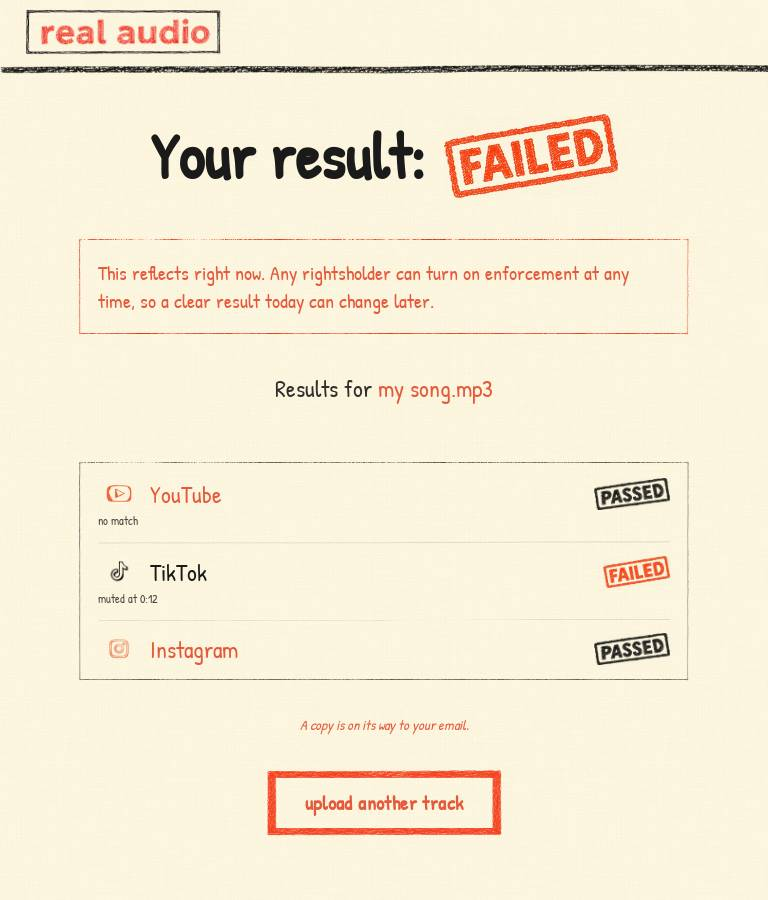
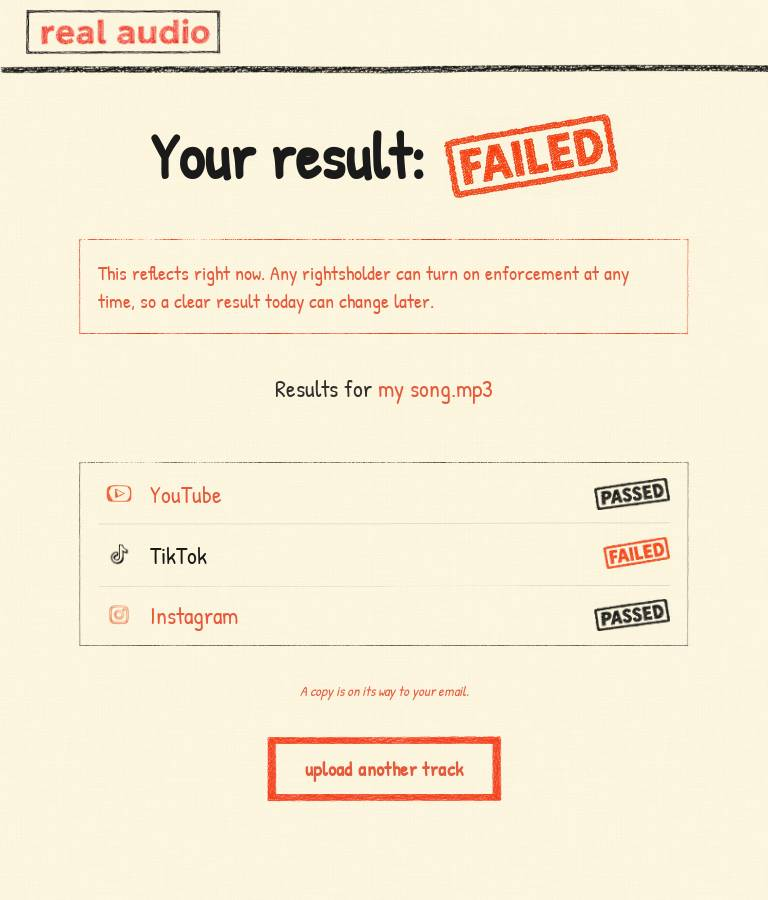
MS-004 fix (Reject5): platform context on the FAILED stamp's hover, not under rows
- Result page rows no longer show the platform note underneath.
- A platform's FAILED stamp shows its context (the note, else the result)
  on hover / keyboard focus, and on tap for touch (tap elsewhere closes).
- Reuses Creator's branded hover tooltip (.download-nudge-tip, copied from
  real-audio-creator src/index.css with its frame-banner-heavy-red-filled
  asset), re-anchored to the row's right edge the way Creator's
  .source-badge-tip is, so it stays on a 375px screen.
- Reject4 headline centring kept (still checked at 375 / 768 / 1280).
- Cache-bust styles.css and result.js ms004-r5. e2e + screenshots.

Stamp assets, email, Resend / emailed_at and bot/ untouched.

Changed region(s): [[0.3438, 0.7467, 0.6562, 0.9333], [0.125, 0.56, 0.3125, 0.7467], [0.75, 0.5911, 0.875, 0.7467]]

diff --git a/clearance-check/public/styles.css b/clearance-check/public/styles.css
@@ -371,7 +371,6 @@ h1, h2, h3, p { margin: 0; }
 .page .file-name,
 .page .file-hint,
 .page .platform-status,
-.page .platform-note,
 .page .text-mono {
   font-family: var(--font-display);
 }
@@ -428,8 +427,6 @@ h1, h2, h3, p { margin: 0; }
 .platform-status[data-result="muted"],
 .platform-status[data-result="error"] { color: var(--color-red); }
 .platform-status[data-result="pending"] { color: var(--color-black); }
-.platform-note { flex-basis: 100%; font-size: 12px; color: rgba(26, 26, 26, 0.8); }
-.platform-note:empty { display: none; }
 /* Reject1: headline is black "Your result:" + the verdict in brand red at the
    same size (the verdict box is gone); track name red; email note red italic. */
 .headline-label { color: var(--color-black); }
@@ -442,6 +439,82 @@ h1, h2, h3, p { margin: 0; }
    the "Your result:" glyphs; lift it to almost centred without moving the line. */
 .stamp-headline { position: relative; top: -0.12em; }
 .stamp-platform { display: block; height: 32px; }
+
+/* Reject5: platform context on hover of the FAILED stamp, not under the row.
+   COPIED from real-audio-creator src/index.css (.download-nudge-tip: the
+   branded hover tooltip, red hand-drawn banner + cream Patrick Hand), then
+   re-anchored the way Creator's .source-badge-tip is: the stamp sits at the
+   row's RIGHT edge, so the bubble is pinned there and grows left, wrapping
+   rather than running off a 375px screen. */
+.download-nudge-tip {
+  position: absolute;
+  bottom: calc(100% + 7px);
+  left: 50%;
+  transform: translateX(-50%) translateY(3px) rotate(-2deg) scale(0.96);
+  transform-origin: center bottom;
+  background: url('/brand-assets/frames/frame-banner-heavy-red-filled.webp')
+    center / 100% 100% no-repeat;
+  color: #FFF8E0;
+  font-family: var(--font-display);
+  font-size: 15px;
+  line-height: 1;
+  white-space: nowrap;
+  padding: 8px 12px 11px;
+  opacity: 0;
+  pointer-events: none;
+  z-index: 40;
+  transition: opacity 140ms ease, transform 140ms ease;
+}
+.download-nudge-tip::after {
+  content: "";
+  position: absolute;
+  top: calc(100% - 9px);
+  left: 50%;
+  width: 14px;
+  height: 14px;
+  transform: translateX(-50%) rotate(45deg);
+  background: url('/brand-assets/frames/frame-banner-heavy-red-filled.webp')
+    center / 46px 46px no-repeat;
+  z-index: -1;
+}
+.platform-stamp {
+  position: relative;
+  display: inline-flex;
+  align-items: center;
+  padding: 0;
+  border: 0;
+  background: none;
+  line-height: 0;
+  cursor: pointer;
+}
+.platform-stamp:focus-visible {
+  outline: 2px solid hsl(var(--brand-accent));
+  outline-offset: 2px;
+}
+.platform-stamp-tip {
+  left: auto;
+  right: 0;
+  transform-origin: right bottom;
+  transform: translateY(3px) rotate(-2deg) scale(0.96);
+  white-space: normal;
+  width: max-content;
+  max-width: min(220px, calc(100vw - 40px));
+  line-height: 1.15;
+  text-align: center;
+}
+/* Tail under the stamp, not under the right-pinned bubble's centre. */
+.platform-stamp-tip::after {
+  left: auto;
+  right: 28px;
+  transform: rotate(45deg);
+}
+/* Desktop hover; keyboard focus; `.is-open` is the tap toggle for touch. */
+.platform-stamp:hover .platform-stamp-tip,
+.platform-stamp:focus-visible .platform-stamp-tip,
+.platform-stamp.is-open .platform-stamp-tip {
+  opacity: 1;
+  transform: translateY(0) rotate(-2deg) scale(1);
+}
 .warning { font-size: 20px; line-height: 1.4; color: var(--color-red); }
 /* Landing: same warning box as the result page, form width, above the form. */
 .landing-warning { max-width: 448px; margin: 0 auto 24px; }

diff --git a/clearance-check/public/result.js b/clearance-check/public/result.js
@@ -35,6 +35,42 @@ function setStamp(el, kind, alt, cls) {
   el.replaceChildren(next);
 }
 
+// Reject5: a platform's FAILED stamp carries that platform's context (the bot's
+// note, else the result) in Creator's branded hover tooltip (.download-nudge-tip,
+// re-anchored like its .source-badge-tip). Touch has no :hover, so a tap toggles
+// it open, and a tap anywhere else closes it (same as Creator's SourceBadge).
+function setFailedStamp(el, alt, context) {
+  const btn = el.querySelector('.platform-stamp');
+  if (btn && btn.dataset.alt === alt && btn.dataset.context === context) return;
+  const next = document.createElement('button');
+  next.type = 'button';
+  next.className = 'platform-stamp';
+  next.dataset.alt = alt;
+  next.dataset.context = context;
+  const img = document.createElement('img');
+  img.className = 'stamp stamp-platform';
+  img.src = STAMP.failed;
+  img.alt = alt;
+  img.dataset.kind = 'failed';
+  const tip = document.createElement('span');
+  tip.className = 'download-nudge-tip platform-stamp-tip';
+  tip.setAttribute('role', 'tooltip');
+  tip.textContent = context;
+  next.append(img, tip);
+  next.setAttribute('aria-label', `${alt}: ${context}`);
+  next.addEventListener('click', () => {
+    const open = !next.classList.contains('is-open');
+    document.querySelectorAll('.platform-stamp.is-open').forEach((b) => b.classList.remove('is-open'));
+    next.classList.toggle('is-open', open);
+  });
+  el.replaceChildren(next);
+}
+document.addEventListener('pointerdown', (e) => {
+  document.querySelectorAll('.platform-stamp.is-open').forEach((b) => {
+    if (!b.contains(e.target)) b.classList.remove('is-open');
+  });
+});
+
 // One row per platform, built once and updated in place.
 const rows = {};
 for (const p of PLATFORMS) {
@@ -52,8 +88,7 @@ for (const p of PLATFORMS) {
       `<img class="platform-icon" src="/icons-runtime/platform-${p.key}.webp" alt="">` +
       `<span class="platform-name"></span>` +
     `</span>` +
-    `<span class="platform-status"></span>` +
-    `<span class="platform-note"></span>`;
+    `<span class="platform-status"></span>`;
   li.querySelector('.platform-name').textContent = p.name;
   list.appendChild(li);
   rows[p.key] = li;
@@ -67,9 +102,9 @@ function render(row) {
     li.dataset.result = result || 'pending';
     const status = li.querySelector('.platform-status');
     status.dataset.result = result;
-    if (STAMPED[result]) setStamp(status, STAMPED[result], LABEL[result], 'stamp-platform');
+    if (STAMPED[result] === 'failed') setFailedStamp(status, LABEL[result], row[`${p.key}_note`] || LABEL[result]);
+    else if (STAMPED[result]) setStamp(status, STAMPED[result], LABEL[result], 'stamp-platform');
     else status.textContent = result === 'pending' && row.status === 'queued' ? 'Queued' : LABEL[result] || result;
-    li.querySelector('.platform-note').textContent = row[`${p.key}_note`] || '';
   }
 
   const allIn = PLATFORMS.every((p) => row[`${p.key}_result`] !== 'pending');

diff --git a/clearance-check/public/r/index.html b/clearance-check/public/r/index.html
@@ -9,7 +9,7 @@
   <link rel="preconnect" href="https://fonts.googleapis.com">
   <link rel="preconnect" href="https://fonts.gstatic.com" crossorigin>
   <link href="https://fonts.googleapis.com/css2?family=Patrick+Hand&family=Inter:wght@400;500;600;700&display=swap" rel="stylesheet">
-  <link rel="stylesheet" href="/styles.css?v=ms004-r4">
+  <link rel="stylesheet" href="/styles.css?v=ms004-r5">
   <meta name="robots" content="noindex">
 </head>
 <body>
@@ -49,6 +49,6 @@
       </div>
     </main>
   </div>
-  <script src="/result.js?v=ms004-r4" type="module"></script>
+  <script src="/result.js?v=ms004-r5" type="module"></script>
 </body>
 </html>

diff --git a/clearance-check/public/index.html b/clearance-check/public/index.html
@@ -9,7 +9,7 @@
   <link rel="preconnect" href="https://fonts.googleapis.com">
   <link rel="preconnect" href="https://fonts.gstatic.com" crossorigin>
   <link href="https://fonts.googleapis.com/css2?family=Patrick+Hand&family=Inter:wght@400;500;600;700&display=swap" rel="stylesheet">
-  <link rel="stylesheet" href="/styles.css?v=ms004-r4">
+  <link rel="stylesheet" href="/styles.css?v=ms004-r5">
 </head>
 <body>
   <div class="page surface-sketched">
